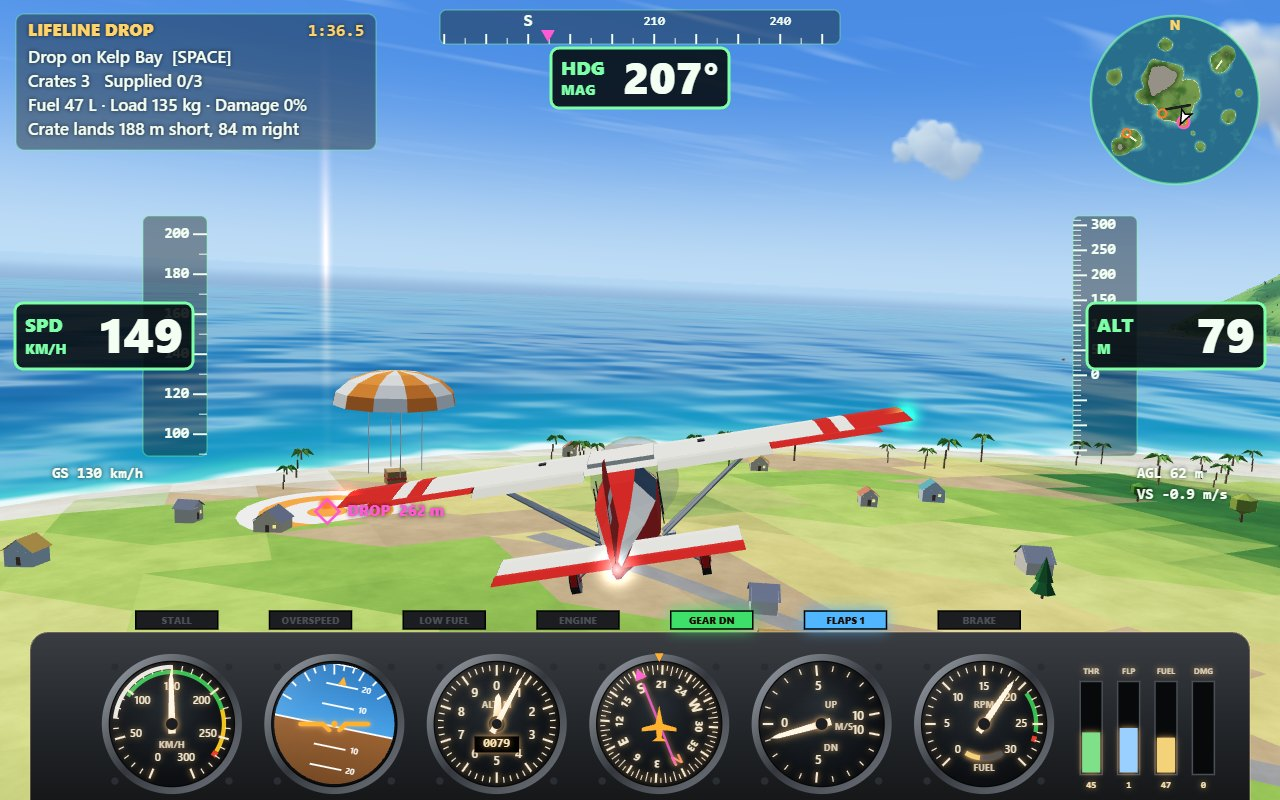
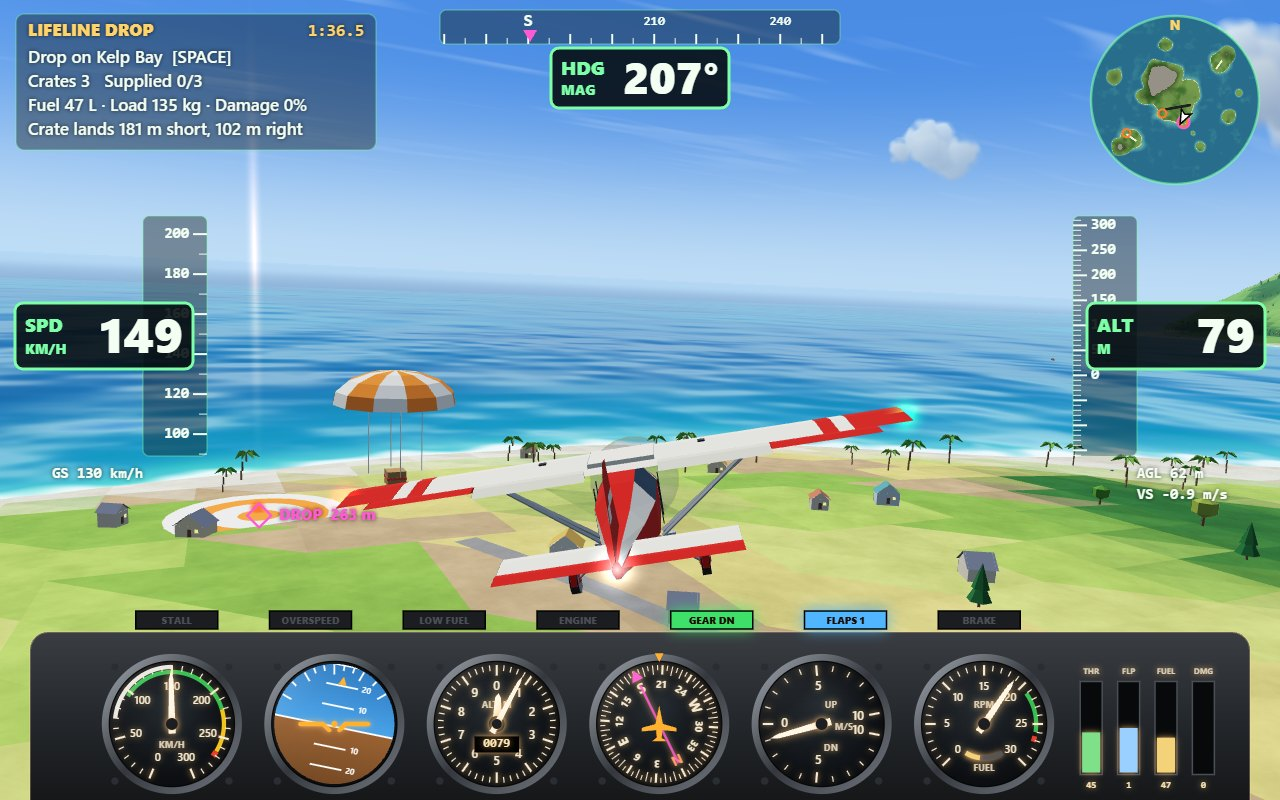
Cockpit view draws only the nose and prop; drop target clear of the wing

diff --git a/game/src/scene-render.js b/game/src/scene-render.js
@@ -29,8 +29,8 @@ export class SceneRenderer {
 			[cockpit ? P.cockpit : P.body, model], [P.aileronL, hinge(wt, a)], [P.aileronR, hinge(wt, -a)], [P.flapL, hinge(wt, f)], [P.flapR, hinge(wt, f)],
 			[P.elevator, hinge(el, -S.elevator * 0.42)], [P.rudder, about(model, [0, 0, rudder.z], mat4RotateY(S.rudder * 0.45))],
 		];
-		if (ac.parts.gear < 100 && !cockpit) parts.push([P.gear, model]);
-		for (const [mesh, m] of parts) this.r.drawMesh(mesh, m, { tint });
+		if (ac.parts.gear < 100) parts.push([P.gear, model]);
+		for (const [mesh, m] of cockpit ? parts.slice(0, 1) : parts) this.r.drawMesh(mesh, m, { tint });
 		if (ac.rpm > 500 && !ac.crashed) this.r.drawMesh(P.disc, model, { alpha: 0.28 });
 		else this.r.drawMesh(P.blades, about(model, [0, prop.y, prop.z], mat4RotateZ(ac.propAngle)), { tint });
 		if (ac.crashed || cockpit) return;

diff --git a/game/src/shots.js b/game/src/shots.js
@@ -28,7 +28,7 @@ export function stageShot(name, { game, camera, world, simulate, startMissionAt 
 		fly(0.5, { pitch: 0.02, roll: -0.05, yaw: 0 });
 	} else if (name === 'drop') {
 		const run = start('drop'), t = run.targets[0].pos, along = (from, deg, r, y) => [from[0] + Math.sin(deg * DEG) * r, y, from[2] - Math.cos(deg * DEG) * r];
-		place(along(t, 6, 280, t[1] + 72), 205, -1, -10, 36, { throttle: 0.45, flaps: 1, fuel: 47, cargo: 135 });
+		place(along(t, 2, 280, t[1] + 72), 205, -1, -10, 36, { throttle: 0.45, flaps: 1, fuel: 47, cargo: 135 });
 		run.crates.push({ ...newCrate(ac()), pos: along(ac().pos, 191, 70, t[1] + 64), vel: [1, -7, 1], t: 6, chute: 1 });
 		run.cratesLeft--;
 		run.time = 96;
